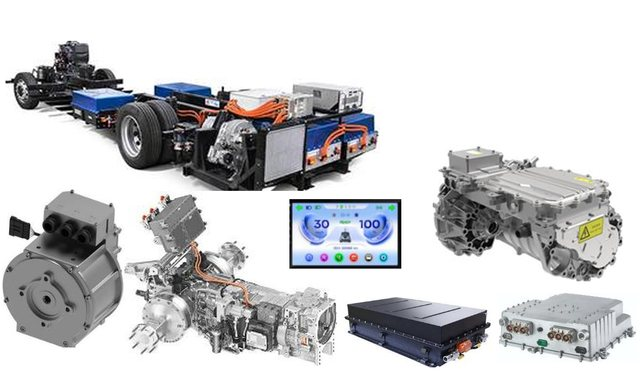
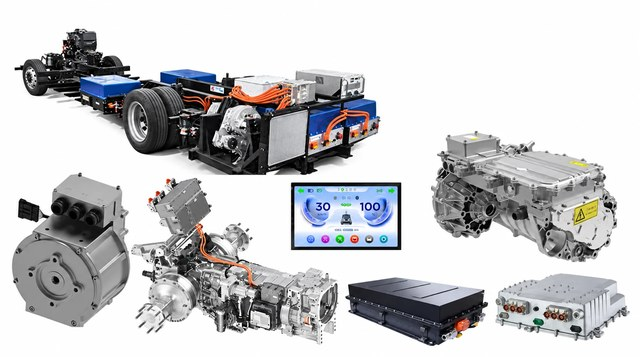
Sharper Electrical Conversion collage; London phone on Contact and in the footer
- The client sent a sharper version of the Electrical Conversion collage
  (1679x937). It replaces the image on the Home tile and the figure on the
  ECOES Electric Conversion page (EN + BG), now in 640, 1200 and 1679px,
  WebP + JPEG, with the size attributes of the new shape.
- London phone from the client, +44 7460659111 (tel:+447460659111): on
  the London card on Contact instead of the red "XXX", and under the London
  address in the footer of every page ("Phone & WhatsApp" / "Телефон и
  WhatsApp"). The Istanbul phone is still to come.

Claude-Session: https://claude.ai/code/session_01RKQqtdGsXyRHxRmsgyawWB

diff --git a/bg/index.html b/bg/index.html
@@ -67,8 +67,8 @@
           <div class="tile-media">
             <ul class="chips"><li>Електрическа конверсия</li><li>Авариен генераторен или батериен модул за движение без захранване от основните батерии</li></ul>
             <picture>
-              <source type="image/webp" srcset="../assets/img/home/electric-conversion-640.webp 640w, ../assets/img/home/electric-conversion.webp 1161w" sizes="(max-width: 859px) 100vw, (max-width: 1239px) 50vw, 420px">
-              <img src="../assets/img/home/electric-conversion.jpg" srcset="../assets/img/home/electric-conversion-640.jpg 640w, ../assets/img/home/electric-conversion.jpg 1161w" sizes="(max-width: 859px) 100vw, (max-width: 1239px) 50vw, 420px" alt="" width="1161" height="675">
+              <source type="image/webp" srcset="../assets/img/home/electric-conversion-640.webp 640w, ../assets/img/home/electric-conversion-1200.webp 1200w, ../assets/img/home/electric-conversion.webp 1679w" sizes="(max-width: 859px) 100vw, (max-width: 1239px) 50vw, 420px">
+              <img src="../assets/img/home/electric-conversion-1200.jpg" srcset="../assets/img/home/electric-conversion-640.jpg 640w, ../assets/img/home/electric-conversion-1200.jpg 1200w, ../assets/img/home/electric-conversion.jpg 1679w" sizes="(max-width: 859px) 100vw, (max-width: 1239px) 50vw, 420px" alt="" width="1679" height="937">
             </picture>
           </div>
           <div class="tile-foot">
@@ -121,6 +121,7 @@
           <h2><span translate="no">ECOES Ltd. </span>Лондон</h2>
           <p>Британска търговска компания</p>
           <p translate="no">60 Tottenham Court Road,<br>Office 1980<br>Fitzrovia,<br>London<br>W1T 2EW</p>
+          <p>Телефон и WhatsApp: <a href="tel:+447460659111" translate="no">+44 7460659111</a></p>
         </div>
         <div class="footer-office">
           <img class="flag" src="../assets/img/flags/eu.svg" alt="" width="45" height="30">

diff --git a/bg/electric-conversion/index.html b/bg/electric-conversion/index.html
@@ -64,8 +64,8 @@
         <figure class="figure">
             <ul class="chips"><li>Електрическа конверсия</li><li>Авариен генераторен или батериен модул за движение без захранване от основните батерии</li></ul>
           <picture>
-            <source type="image/webp" srcset="../../assets/img/conversion/conversion-640.webp 640w, ../../assets/img/conversion/conversion.webp 1161w" sizes="(max-width: 960px) 100vw, 900px">
-            <img src="../../assets/img/conversion/conversion.jpg" srcset="../../assets/img/conversion/conversion-640.jpg 640w, ../../assets/img/conversion/conversion.jpg 1161w" sizes="(max-width: 960px) 100vw, 900px" alt="" width="1161" height="678">
+            <source type="image/webp" srcset="../../assets/img/conversion/conversion-640.webp 640w, ../../assets/img/conversion/conversion-1200.webp 1200w, ../../assets/img/conversion/conversion.webp 1679w" sizes="(max-width: 960px) 100vw, 900px">
+            <img src="../../assets/img/conversion/conversion-1200.jpg" srcset="../../assets/img/conversion/conversion-640.jpg 640w, ../../assets/img/conversion/conversion-1200.jpg 1200w, ../../assets/img/conversion/conversion.jpg 1679w" sizes="(max-width: 960px) 100vw, 900px" alt="" width="1679" height="937">
           </picture>
         </figure>
 
@@ -151,6 +151,7 @@
           <h2><span translate="no">ECOES Ltd. </span>Лондон</h2>
           <p>Британска търговска компания</p>
           <p translate="no">60 Tottenham Court Road,<br>Office 1980<br>Fitzrovia,<br>London<br>W1T 2EW</p>
+          <p>Телефон и WhatsApp: <a href="tel:+447460659111" translate="no">+44 7460659111</a></p>
         </div>
         <div class="footer-office">
           <img class="flag" src="../../assets/img/flags/eu.svg" alt="" width="45" height="30">

diff --git a/index.html b/index.html
@@ -67,8 +67,8 @@
           <div class="tile-media">
             <ul class="chips"><li>Electrical Conversion</li><li>Emergency generator or battery module for movement without power from the main batteries</li></ul>
             <picture>
-              <source type="image/webp" srcset="assets/img/home/electric-conversion-640.webp 640w, assets/img/home/electric-conversion.webp 1161w" sizes="(max-width: 859px) 100vw, (max-width: 1239px) 50vw, 420px">
-              <img src="assets/img/home/electric-conversion.jpg" srcset="assets/img/home/electric-conversion-640.jpg 640w, assets/img/home/electric-conversion.jpg 1161w" sizes="(max-width: 859px) 100vw, (max-width: 1239px) 50vw, 420px" alt="" width="1161" height="675">
+              <source type="image/webp" srcset="assets/img/home/electric-conversion-640.webp 640w, assets/img/home/electric-conversion-1200.webp 1200w, assets/img/home/electric-conversion.webp 1679w" sizes="(max-width: 859px) 100vw, (max-width: 1239px) 50vw, 420px">
+              <img src="assets/img/home/electric-conversion-1200.jpg" srcset="assets/img/home/electric-conversion-640.jpg 640w, assets/img/home/electric-conversion-1200.jpg 1200w, assets/img/home/electric-conversion.jpg 1679w" sizes="(max-width: 859px) 100vw, (max-width: 1239px) 50vw, 420px" alt="" width="1679" height="937">
             </picture>
           </div>
           <div class="tile-foot">
@@ -121,6 +121,7 @@
           <h2><span translate="no">ECOES Ltd. </span>London</h2>
           <p>UK trade company</p>
           <p translate="no">60 Tottenham Court Road,<br>Office 1980<br>Fitzrovia,<br>London<br>W1T 2EW</p>
+          <p>Phone &amp; WhatsApp: <a href="tel:+447460659111" translate="no">+44 7460659111</a></p>
         </div>
         <div class="footer-office">
           <img class="flag" src="assets/img/flags/eu.svg" alt="" width="45" height="30">

diff --git a/electric-conversion/index.html b/electric-conversion/index.html
@@ -64,8 +64,8 @@
         <figure class="figure">
             <ul class="chips"><li>Electrical Conversion</li><li>Emergency generator or battery module for movement without power from the main batteries</li></ul>
           <picture>
-            <source type="image/webp" srcset="../assets/img/conversion/conversion-640.webp 640w, ../assets/img/conversion/conversion.webp 1161w" sizes="(max-width: 960px) 100vw, 900px">
-            <img src="../assets/img/conversion/conversion.jpg" srcset="../assets/img/conversion/conversion-640.jpg 640w, ../assets/img/conversion/conversion.jpg 1161w" sizes="(max-width: 960px) 100vw, 900px" alt="" width="1161" height="678">
+            <source type="image/webp" srcset="../assets/img/conversion/conversion-640.webp 640w, ../assets/img/conversion/conversion-1200.webp 1200w, ../assets/img/conversion/conversion.webp 1679w" sizes="(max-width: 960px) 100vw, 900px">
+            <img src="../assets/img/conversion/conversion-1200.jpg" srcset="../assets/img/conversion/conversion-640.jpg 640w, ../assets/img/conversion/conversion-1200.jpg 1200w, ../assets/img/conversion/conversion.jpg 1679w" sizes="(max-width: 960px) 100vw, 900px" alt="" width="1679" height="937">
           </picture>
         </figure>
 
@@ -151,6 +151,7 @@
           <h2><span translate="no">ECOES Ltd. </span>London</h2>
           <p>UK trade company</p>
           <p translate="no">60 Tottenham Court Road,<br>Office 1980<br>Fitzrovia,<br>London<br>W1T 2EW</p>
+          <p>Phone &amp; WhatsApp: <a href="tel:+447460659111" translate="no">+44 7460659111</a></p>
         </div>
         <div class="footer-office">
           <img class="flag" src="../assets/img/flags/eu.svg" alt="" width="45" height="30">

diff --git a/bg/contact-us/index.html b/bg/contact-us/index.html
@@ -72,7 +72,7 @@
             </ul>
             <ul class="office-lines">
               <li><span class="line-label">Факс:</span> <span translate="no">+35924120488</span></li>
-              <li><span class="line-label">Телефон и WhatsApp:</span><br><span class="tbd" translate="no">+44 XXXXXXXXXX</span></li>
+              <li><span class="line-label">Телефон и WhatsApp:</span><br><a class="text-link" translate="no" href="tel:+447460659111">+44 7460659111</a></li>
             </ul>
             <p class="office-address" translate="no">60 Tottenham Court Road,<br>Office 1980<br>Fitzrovia,<br>London<br>W1T 2EW</p>
           </address>
@@ -184,6 +184,7 @@
           <h2><span translate="no">ECOES Ltd. </span>Лондон</h2>
           <p>Британска търговска компания</p>
           <p translate="no">60 Tottenham Court Road,<br>Office 1980<br>Fitzrovia,<br>London<br>W1T 2EW</p>
+          <p>Телефон и WhatsApp: <a href="tel:+447460659111" translate="no">+44 7460659111</a></p>
         </div>
         <div class="footer-office">
           <img class="flag" src="../../assets/img/flags/eu.svg" alt="" width="45" height="30">

diff --git a/contact-us/index.html b/contact-us/index.html
@@ -72,7 +72,7 @@
             </ul>
             <ul class="office-lines">
               <li><span class="line-label">Fax:</span> <span translate="no">+35924120488</span></li>
-              <li><span class="line-label">Phone &amp; WhatsApp:</span><br><span class="tbd" translate="no">+44 XXXXXXXXXX</span></li>
+              <li><span class="line-label">Phone &amp; WhatsApp:</span><br><a class="text-link" translate="no" href="tel:+447460659111">+44 7460659111</a></li>
             </ul>
             <p class="office-address" translate="no">60 Tottenham Court Road,<br>Office 1980<br>Fitzrovia,<br>London<br>W1T 2EW</p>
           </address>
@@ -184,6 +184,7 @@
           <h2><span translate="no">ECOES Ltd. </span>London</h2>
           <p>UK trade company</p>
           <p translate="no">60 Tottenham Court Road,<br>Office 1980<br>Fitzrovia,<br>London<br>W1T 2EW</p>
+          <p>Phone &amp; WhatsApp: <a href="tel:+447460659111" translate="no">+44 7460659111</a></p>
         </div>
         <div class="footer-office">
           <img class="flag" src="../assets/img/flags/eu.svg" alt="" width="45" height="30">

diff --git a/bg/about-us/index.html b/bg/about-us/index.html
@@ -256,6 +256,7 @@
           <h2><span translate="no">ECOES Ltd. </span>Лондон</h2>
           <p>Британска търговска компания</p>
           <p translate="no">60 Tottenham Court Road,<br>Office 1980<br>Fitzrovia,<br>London<br>W1T 2EW</p>
+          <p>Телефон и WhatsApp: <a href="tel:+447460659111" translate="no">+44 7460659111</a></p>
         </div>
         <div class="footer-office">
           <img class="flag" src="../../assets/img/flags/eu.svg" alt="" width="45" height="30">

diff --git a/bg/electric-agro-truck-construction/index.html b/bg/electric-agro-truck-construction/index.html
@@ -111,6 +111,7 @@
           <h2><span translate="no">ECOES Ltd. </span>Лондон</h2>
           <p>Британска търговска компания</p>
           <p translate="no">60 Tottenham Court Road,<br>Office 1980<br>Fitzrovia,<br>London<br>W1T 2EW</p>
+          <p>Телефон и WhatsApp: <a href="tel:+447460659111" translate="no">+44 7460659111</a></p>
         </div>
         <div class="footer-office">
           <img class="flag" src="../../assets/img/flags/eu.svg" alt="" width="45" height="30">

diff --git a/bg/electric-conversions-bus-truck/index.html b/bg/electric-conversions-bus-truck/index.html
@@ -114,6 +114,7 @@
           <h2><span translate="no">ECOES Ltd. </span>Лондон</h2>
           <p>Британска търговска компания</p>
           <p translate="no">60 Tottenham Court Road,<br>Office 1980<br>Fitzrovia,<br>London<br>W1T 2EW</p>
+          <p>Телефон и WhatsApp: <a href="tel:+447460659111" translate="no">+44 7460659111</a></p>
         </div>
         <div class="footer-office">
           <img class="flag" src="../../assets/img/flags/eu.svg" alt="" width="45" height="30">

diff --git a/about-us/index.html b/about-us/index.html
@@ -256,6 +256,7 @@
           <h2><span translate="no">ECOES Ltd. </span>London</h2>
           <p>UK trade company</p>
           <p translate="no">60 Tottenham Court Road,<br>Office 1980<br>Fitzrovia,<br>London<br>W1T 2EW</p>
+          <p>Phone &amp; WhatsApp: <a href="tel:+447460659111" translate="no">+44 7460659111</a></p>
         </div>
         <div class="footer-office">
           <img class="flag" src="../assets/img/flags/eu.svg" alt="" width="45" height="30">

diff --git a/electric-agro-truck-construction/index.html b/electric-agro-truck-construction/index.html
@@ -111,6 +111,7 @@
           <h2><span translate="no">ECOES Ltd. </span>London</h2>
           <p>UK trade company</p>
           <p translate="no">60 Tottenham Court Road,<br>Office 1980<br>Fitzrovia,<br>London<br>W1T 2EW</p>
+          <p>Phone &amp; WhatsApp: <a href="tel:+447460659111" translate="no">+44 7460659111</a></p>
         </div>
         <div class="footer-office">
           <img class="flag" src="../assets/img/flags/eu.svg" alt="" width="45" height="30">

diff --git a/electric-conversions-bus-truck/index.html b/electric-conversions-bus-truck/index.html
@@ -114,6 +114,7 @@
           <h2><span translate="no">ECOES Ltd. </span>London</h2>
           <p>UK trade company</p>
           <p translate="no">60 Tottenham Court Road,<br>Office 1980<br>Fitzrovia,<br>London<br>W1T 2EW</p>
+          <p>Phone &amp; WhatsApp: <a href="tel:+447460659111" translate="no">+44 7460659111</a></p>
         </div>
         <div class="footer-office">
           <img class="flag" src="../assets/img/flags/eu.svg" alt="" width="45" height="30">
